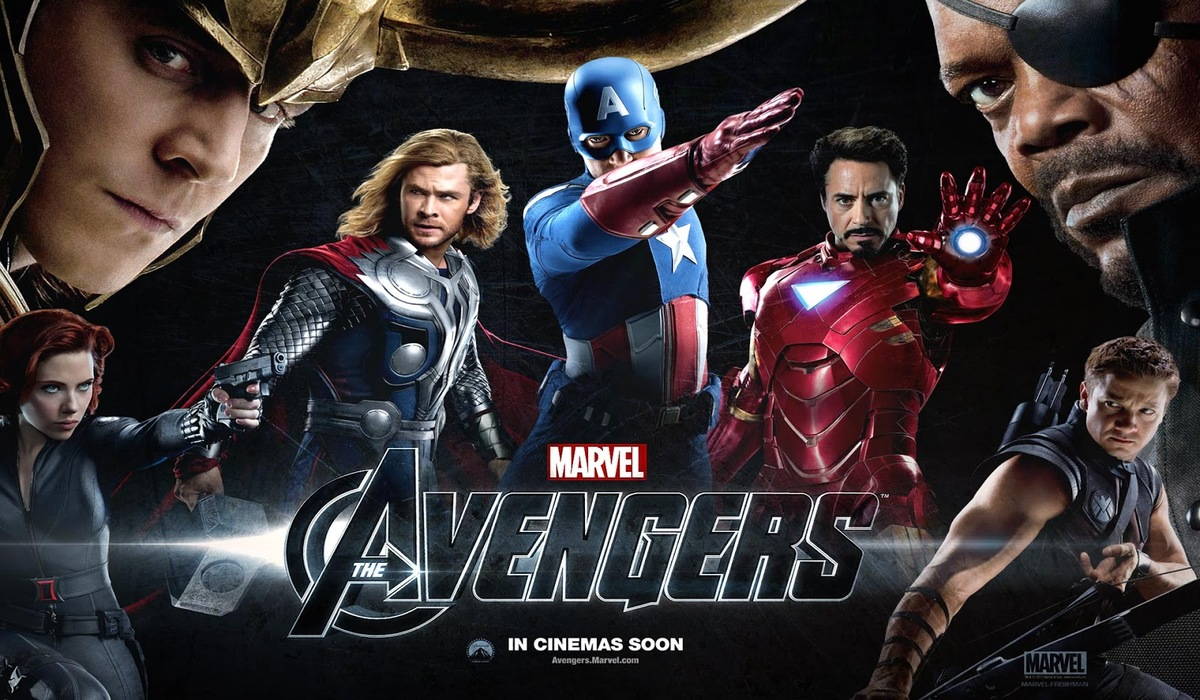
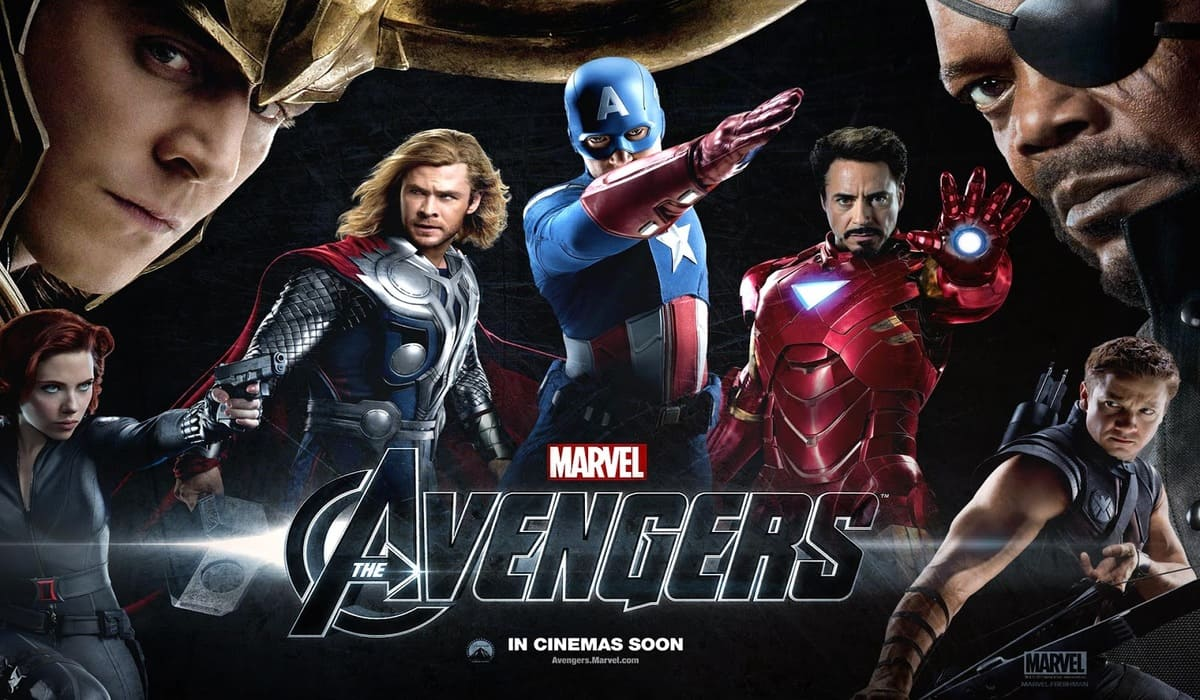
Comprimir imagenes

diff --git a/css/style.css b/css/style.css
@@ -29,13 +29,14 @@ body{
 }
 
 .lateral a{
-    width: 100%;
+    width: 80%;
     height:10vh;
 }
 
 .lateral button{
     width: 100%;
     height: 100%;
+    border-radius: 15px;
 }
 
 .contenedor_contenedorcarrucel{
